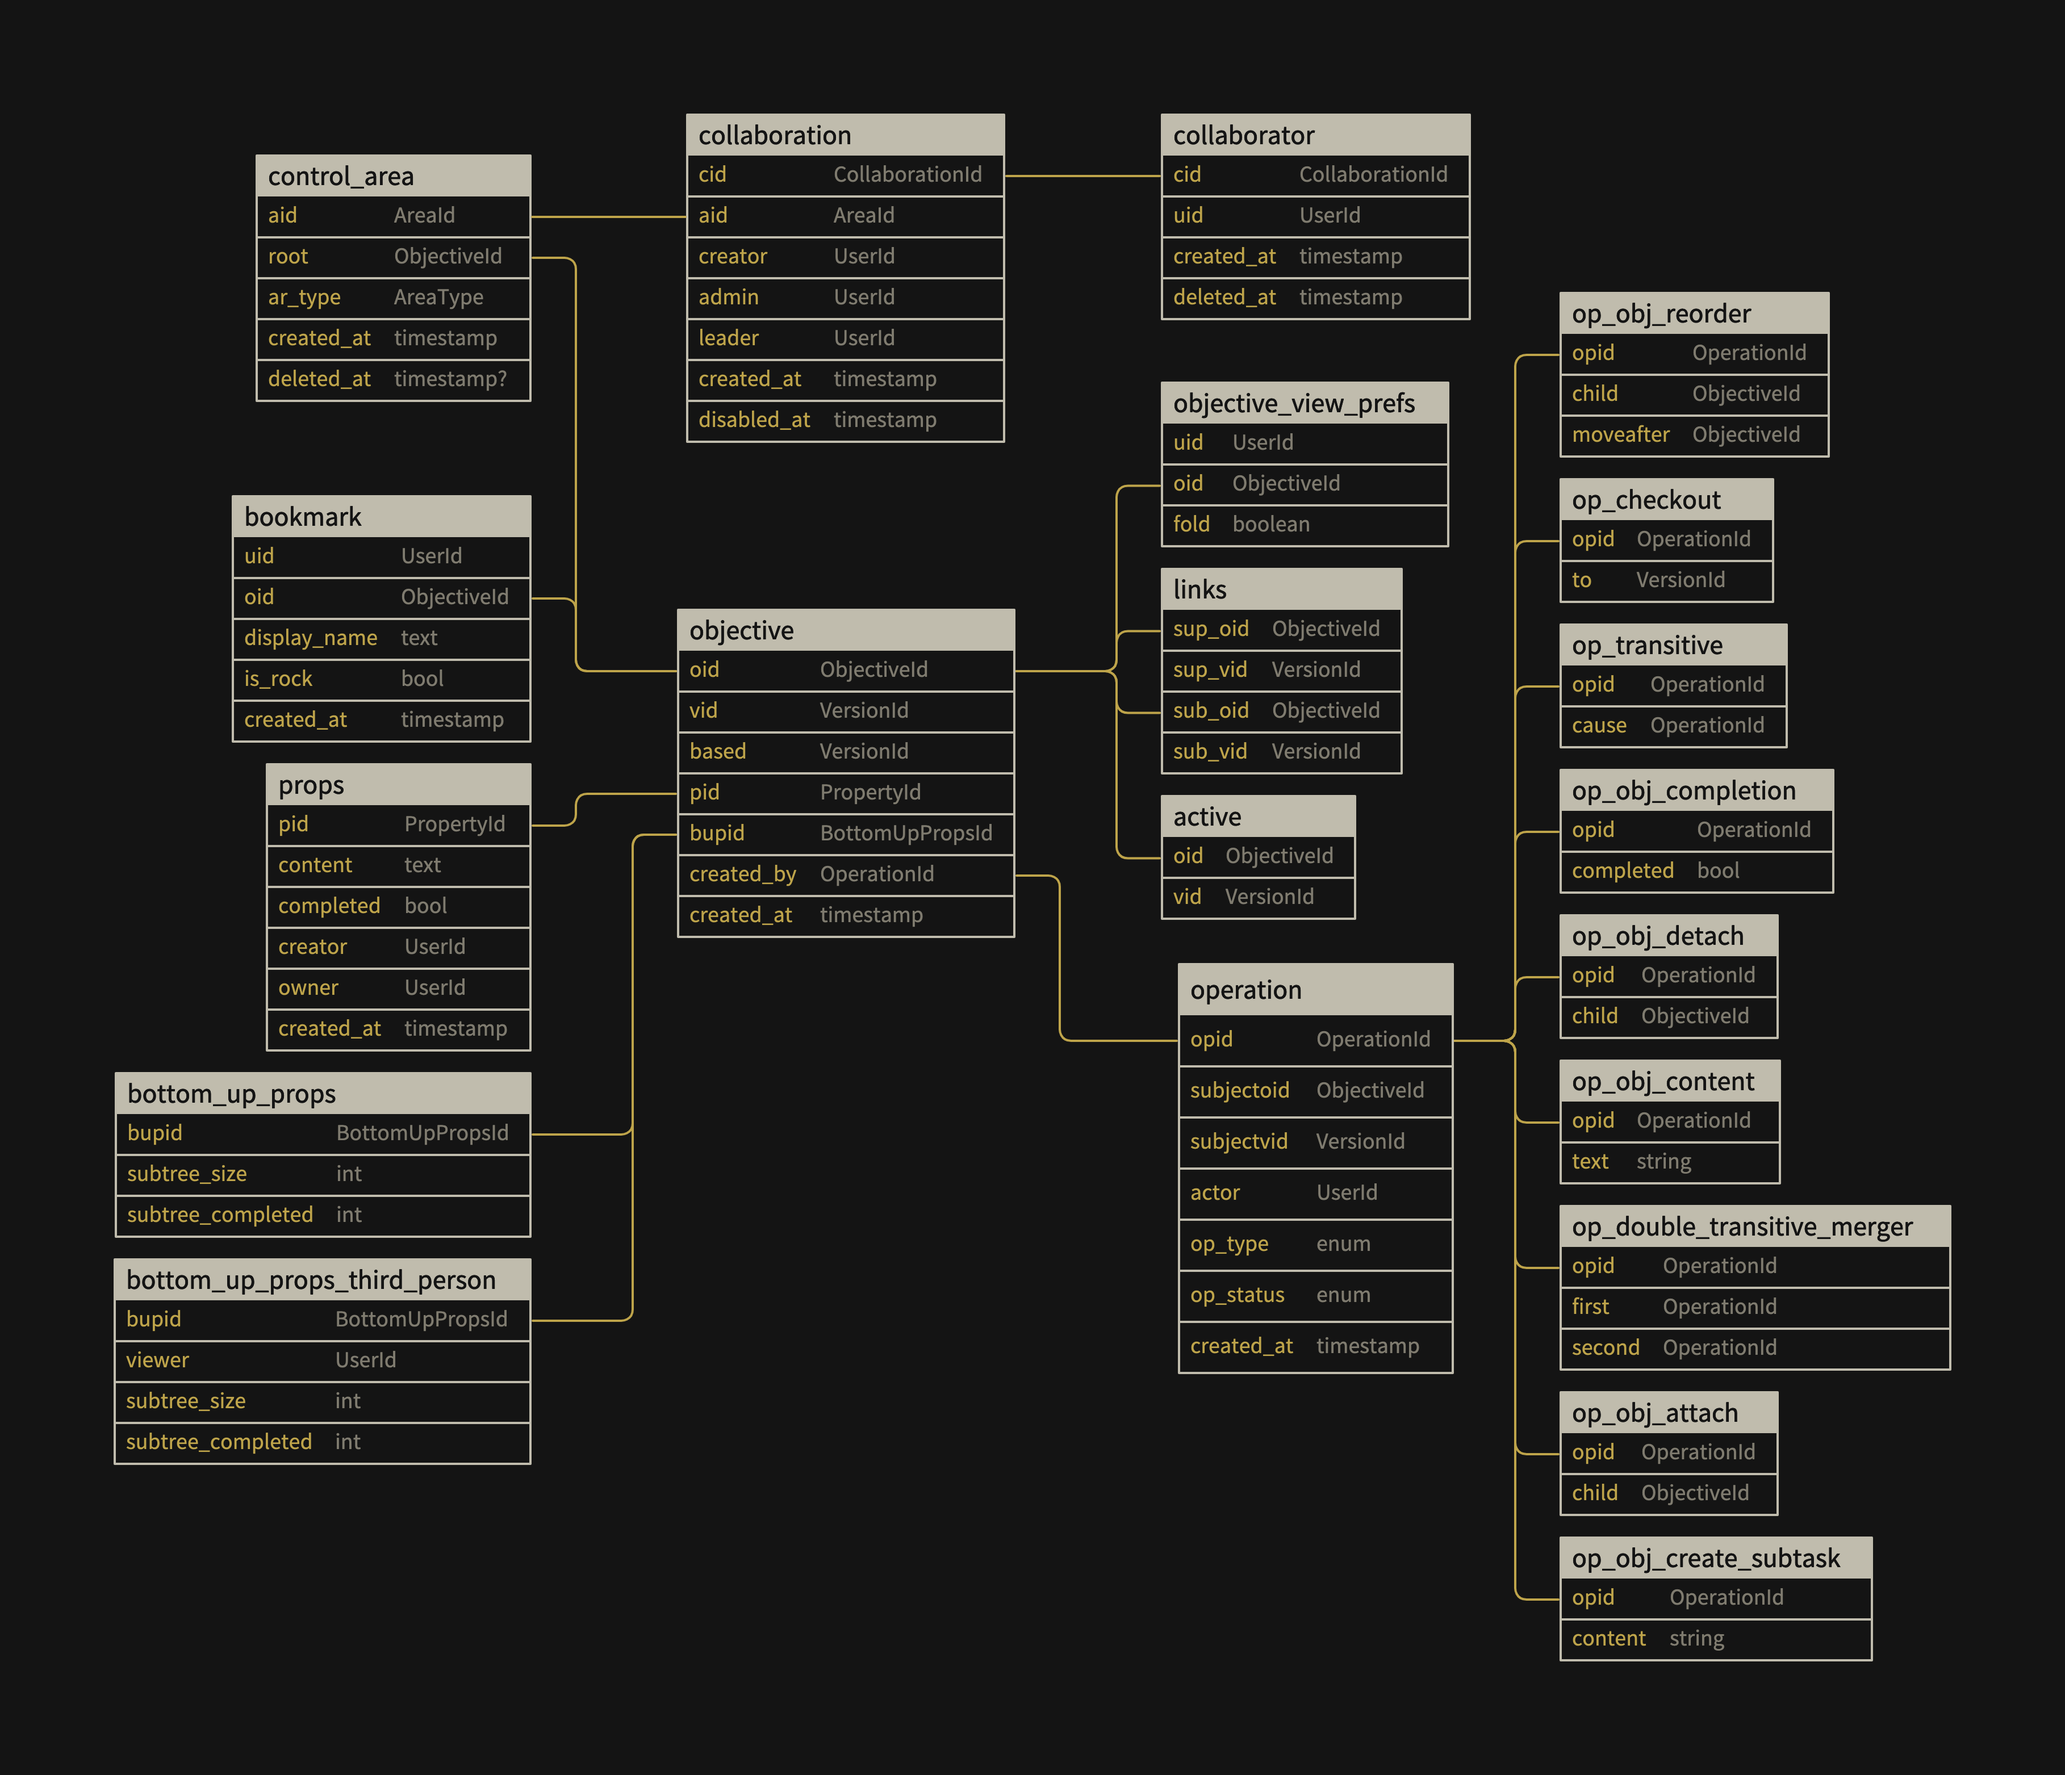
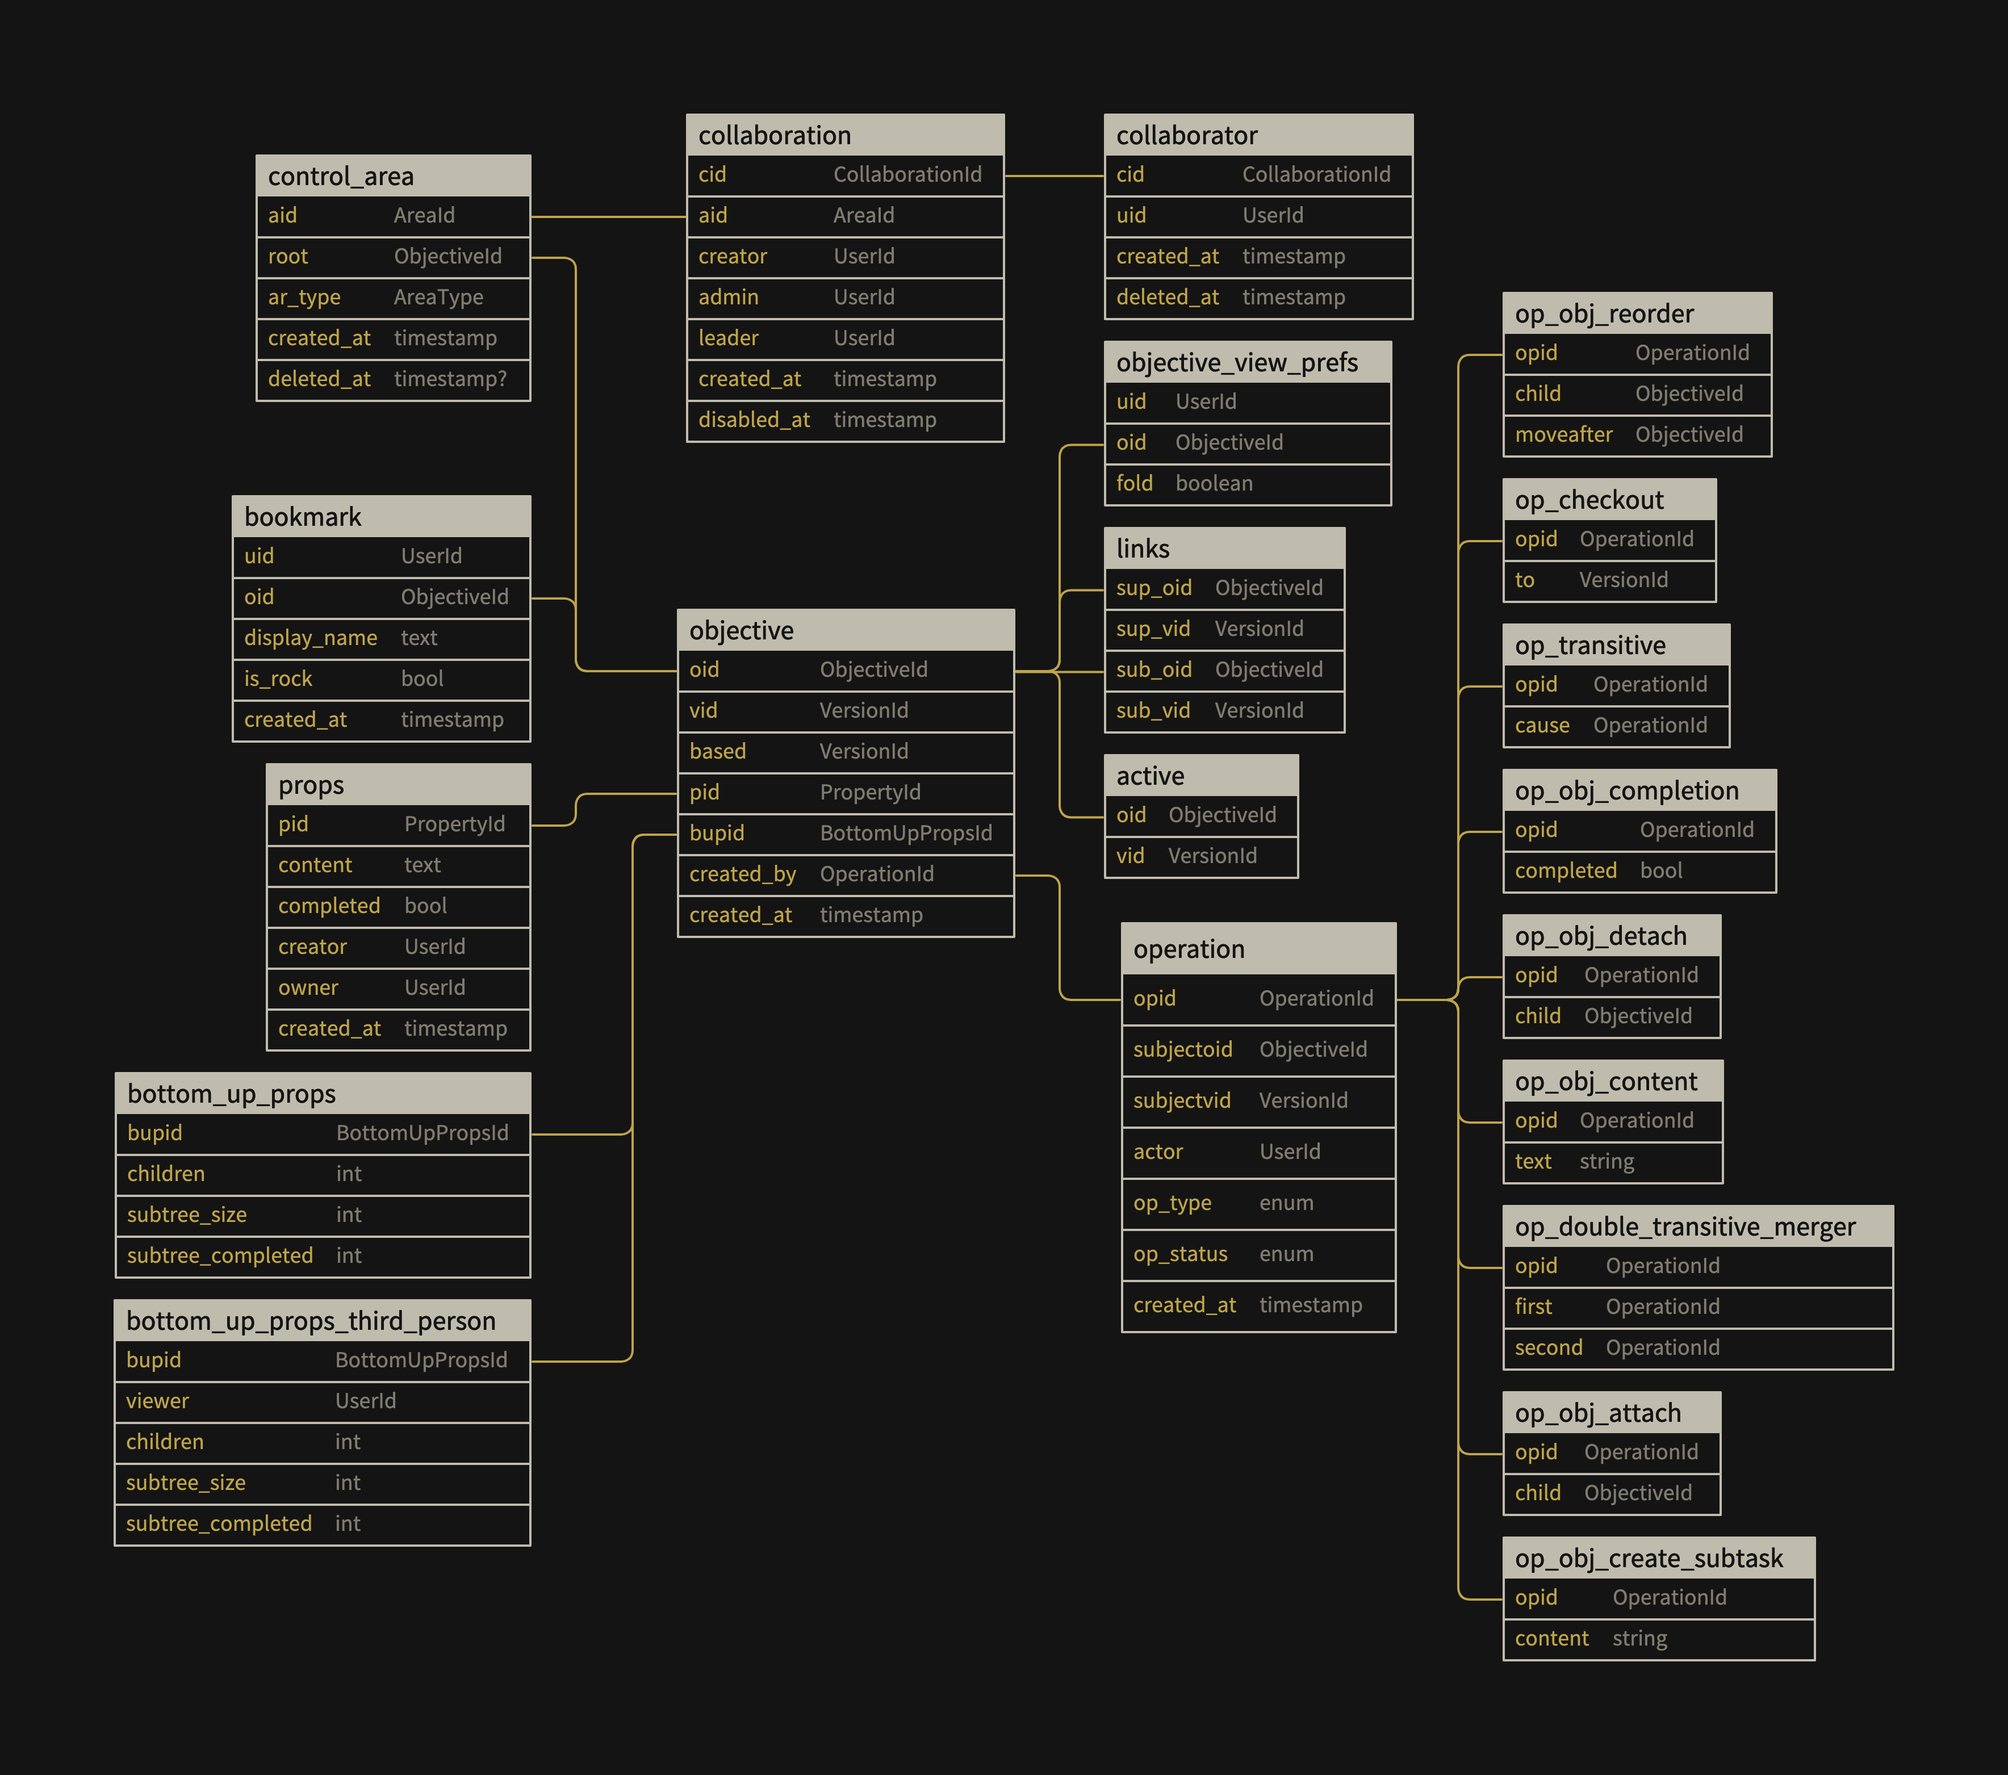
app/cmd/objectives: adds `children` to bottom up props

diff --git a/app/cmd/objectives/queries/queries.bottom_up_props.sql.sqlc.go b/app/cmd/objectives/queries/queries.bottom_up_props.sql.sqlc.go
@@ -12,34 +12,41 @@ import (
 )
 
 const insertBottomUpProps = `-- name: InsertBottomUpProps :one
-INSERT INTO "bottom_up_props"("subtree_size", "subtree_completed")
-    VALUES ($1, $2)
+INSERT INTO "bottom_up_props"("children", "subtree_size", "subtree_completed")
+    VALUES ($1, $2, $3)
 RETURNING
-    bupid, subtree_size, subtree_completed
+    bupid, children, subtree_size, subtree_completed
 `
 
 type InsertBottomUpPropsParams struct {
+	Children         int32
 	SubtreeSize      int32
 	SubtreeCompleted int32
 }
 
 func (q *Queries) InsertBottomUpProps(ctx context.Context, arg InsertBottomUpPropsParams) (BottomUpProps, error) {
-	row := q.db.QueryRow(ctx, insertBottomUpProps, arg.SubtreeSize, arg.SubtreeCompleted)
+	row := q.db.QueryRow(ctx, insertBottomUpProps, arg.Children, arg.SubtreeSize, arg.SubtreeCompleted)
 	var i BottomUpProps
-	err := row.Scan(&i.Bupid, &i.SubtreeSize, &i.SubtreeCompleted)
+	err := row.Scan(
+		&i.Bupid,
+		&i.Children,
+		&i.SubtreeSize,
+		&i.SubtreeCompleted,
+	)
 	return i, err
 }
 
 const insertBottomUpPropsThirdPerson = `-- name: InsertBottomUpPropsThirdPerson :one
-INSERT INTO "bottom_up_props_third_person"("bupid", "viewer", "subtree_size", "subtree_completed")
-    VALUES ($1, $2, $3, $4)
+INSERT INTO "bottom_up_props_third_person"("bupid", "viewer", "children", "subtree_size", "subtree_completed")
+    VALUES ($1, $2, $3, $4, $5)
 RETURNING
-    bupid, viewer, subtree_size, subtree_completed
+    bupid, viewer, children, subtree_size, subtree_completed
 `
 
 type InsertBottomUpPropsThirdPersonParams struct {
 	Bupid            columns.BottomUpPropsId
 	Viewer           columns.UserId
+	Children         int32
 	SubtreeSize      int32
 	SubtreeCompleted int32
 }
@@ -48,6 +55,7 @@ func (q *Queries) InsertBottomUpPropsThirdPerson(ctx context.Context, arg Insert
 	row := q.db.QueryRow(ctx, insertBottomUpPropsThirdPerson,
 		arg.Bupid,
 		arg.Viewer,
+		arg.Children,
 		arg.SubtreeSize,
 		arg.SubtreeCompleted,
 	)
@@ -55,6 +63,7 @@ func (q *Queries) InsertBottomUpPropsThirdPerson(ctx context.Context, arg Insert
 	err := row.Scan(
 		&i.Bupid,
 		&i.Viewer,
+		&i.Children,
 		&i.SubtreeSize,
 		&i.SubtreeCompleted,
 	)
@@ -63,7 +72,7 @@ func (q *Queries) InsertBottomUpPropsThirdPerson(ctx context.Context, arg Insert
 
 const selectBottomUpProps = `-- name: SelectBottomUpProps :one
 SELECT
-    bupid, subtree_size, subtree_completed
+    bupid, children, subtree_size, subtree_completed
 FROM
     "bottom_up_props"
 WHERE
@@ -74,13 +83,18 @@ LIMIT 1
 func (q *Queries) SelectBottomUpProps(ctx context.Context, bupid columns.BottomUpPropsId) (BottomUpProps, error) {
 	row := q.db.QueryRow(ctx, selectBottomUpProps, bupid)
 	var i BottomUpProps
-	err := row.Scan(&i.Bupid, &i.SubtreeSize, &i.SubtreeCompleted)
+	err := row.Scan(
+		&i.Bupid,
+		&i.Children,
+		&i.SubtreeSize,
+		&i.SubtreeCompleted,
+	)
 	return i, err
 }
 
 const selectBottomUpPropsThirdPerson = `-- name: SelectBottomUpPropsThirdPerson :one
 SELECT
-    bupid, viewer, subtree_size, subtree_completed
+    bupid, viewer, children, subtree_size, subtree_completed
 FROM
     "bottom_up_props_third_person"
 WHERE
@@ -100,6 +114,7 @@ func (q *Queries) SelectBottomUpPropsThirdPerson(ctx context.Context, arg Select
 	err := row.Scan(
 		&i.Bupid,
 		&i.Viewer,
+		&i.Children,
 		&i.SubtreeSize,
 		&i.SubtreeCompleted,
 	)

diff --git a/app/cmd/objectives/app/bubblink.go b/app/cmd/objectives/app/bubblink.go
@@ -8,9 +8,9 @@ import (
 	"logbook/models/columns"
 )
 
-// used to instruct the bubblink for the amount of change in the Bottom Up
-// Properties due to an operation which alters the topology/state of subtree
+// represents the amount of change in the Bottom Up Props of each ascendant
 type bubblinkDeltaValues struct {
+	Children         int32 // only first parent
 	SubtreeCompleted int32
 	SubtreeSize      int32
 }
@@ -18,15 +18,14 @@ type bubblinkDeltaValues struct {
 var zeroDeltas bubblinkDeltaValues
 
 // promotes an update to ascendants
-// first item of the activepath should be the source of update promotion, newly updated objective (oid:latestvid)
-// it returns the operation id generated for the transitive update of the uppermost objective in the activepath
+// returns the uppermost objective's operation id
 func (a *App) bubblink(ctx context.Context, q *queries.Queries, activepath []models.Ovid, op queries.Operation, deltas bubblinkDeltaValues) (columns.OperationId, error) {
 	if len(activepath) <= 1 {
 		return columns.ZeroOperationId, nil // no ascendant to promote update
 	}
 	child := activepath[0]
 	cause := op.Opid
-	for _, ascendant := range activepath[1:] {
+	for i, ascendant := range activepath[1:] {
 		optrs, err := q.InsertOperation(ctx, queries.InsertOperationParams{
 			Subjectoid: ascendant.Oid,
 			Subjectvid: ascendant.Vid,
@@ -61,14 +60,12 @@ func (a *App) bubblink(ctx context.Context, q *queries.Queries, activepath []mod
 				return columns.ZeroOperationId, fmt.Errorf("SelectBottomUpProps: %w", err)
 			}
 
-			if deltas.SubtreeSize != 0 {
-				bup.SubtreeSize += deltas.SubtreeSize
-			}
-			if deltas.SubtreeCompleted != 0 {
-				bup.SubtreeCompleted += deltas.SubtreeCompleted
-			}
+			bup.Children += ternary(i == 0, deltas.Children, 0)
+			bup.SubtreeSize += deltas.SubtreeSize
+			bup.SubtreeCompleted += deltas.SubtreeCompleted
 
 			bupUpdated, err := q.InsertBottomUpProps(ctx, queries.InsertBottomUpPropsParams{
+				Children:         bup.Children,
 				SubtreeSize:      bup.SubtreeSize,
 				SubtreeCompleted: bup.SubtreeCompleted,
 			})
@@ -123,8 +120,6 @@ func (a *App) bubblink(ctx context.Context, q *queries.Queries, activepath []mod
 				return columns.ZeroOperationId, fmt.Errorf("InsertLink/2: %w", err)
 			}
 		}
-
-		// TODO: trigger computing props on objasc (async?)
 
 		// TODO: publish an event to notify frontends viewing any objective of active path?
 		_, err = q.UpdateActiveVidForObjective(ctx, queries.UpdateActiveVidForObjectiveParams{

diff --git a/app/cmd/objectives/app/createsubtask.go b/app/cmd/objectives/app/createsubtask.go
@@ -66,6 +66,7 @@ func (a *App) CreateSubtask(ctx context.Context, params CreateSubtaskParams) (co
 	}
 
 	bup, err := q.InsertBottomUpProps(ctx, queries.InsertBottomUpPropsParams{
+		Children:         0,
 		SubtreeSize:      0,
 		SubtreeCompleted: 0,
 	})
@@ -90,7 +91,7 @@ func (a *App) CreateSubtask(ctx context.Context, params CreateSubtaskParams) (co
 		return columns.ZeroObjectId, fmt.Errorf("InsertActiveVidForObjective: %w", err)
 	}
 
-	_, err = a.bubblink(ctx, q, slices.Insert(activepath, 0, models.Ovid{obj.Oid, obj.Vid}), op, bubblinkDeltaValues{SubtreeSize: 1})
+	_, err = a.bubblink(ctx, q, slices.Insert(activepath, 0, models.Ovid{obj.Oid, obj.Vid}), op, bubblinkDeltaValues{Children: 1, SubtreeSize: 1})
 	if err != nil {
 		return columns.ZeroObjectId, fmt.Errorf("bubblink: %w", err)
 	}

diff --git a/app/cmd/objectives/queries/models.sqlc.go b/app/cmd/objectives/queries/models.sqlc.go
@@ -164,6 +164,7 @@ type Bookmark struct {
 
 type BottomUpProps struct {
 	Bupid            columns.BottomUpPropsId
+	Children         int32
 	SubtreeSize      int32
 	SubtreeCompleted int32
 }
@@ -171,6 +172,7 @@ type BottomUpProps struct {
 type BottomUpPropsThirdPerson struct {
 	Bupid            columns.BottomUpPropsId
 	Viewer           columns.UserId
+	Children         int32
 	SubtreeSize      int32
 	SubtreeCompleted int32
 }

diff --git a/app/cmd/objectives/queries/database_test.go b/app/cmd/objectives/queries/database_test.go
@@ -78,6 +78,7 @@ func TestLogic(t *testing.T) {
 		}
 
 		bup, err := q.InsertBottomUpProps(ctx, InsertBottomUpPropsParams{
+			Children:         0,
 			SubtreeSize:      0,
 			SubtreeCompleted: 0,
 		})
@@ -127,6 +128,7 @@ func TestLogic(t *testing.T) {
 		}
 
 		bup, err := q.InsertBottomUpProps(ctx, InsertBottomUpPropsParams{
+			Children:         0,
 			SubtreeSize:      0,
 			SubtreeCompleted: 0,
 		})

diff --git a/app/cmd/objectives/app/rockcreate.go b/app/cmd/objectives/app/rockcreate.go
@@ -26,6 +26,7 @@ func (a *App) RockCreate(ctx context.Context, uid columns.UserId) error {
 	}
 
 	bup, err := q.InsertBottomUpProps(ctx, queries.InsertBottomUpPropsParams{
+		Children:         0,
 		SubtreeSize:      0,
 		SubtreeCompleted: 0,
 	})

diff --git a/app/cmd/objectives/app/utils.go b/app/cmd/objectives/app/utils.go
@@ -1,0 +1,8 @@
+package app
+
+func ternary[T any](cond bool, t, f T) T {
+	if cond {
+		return t
+	}
+	return f
+}
